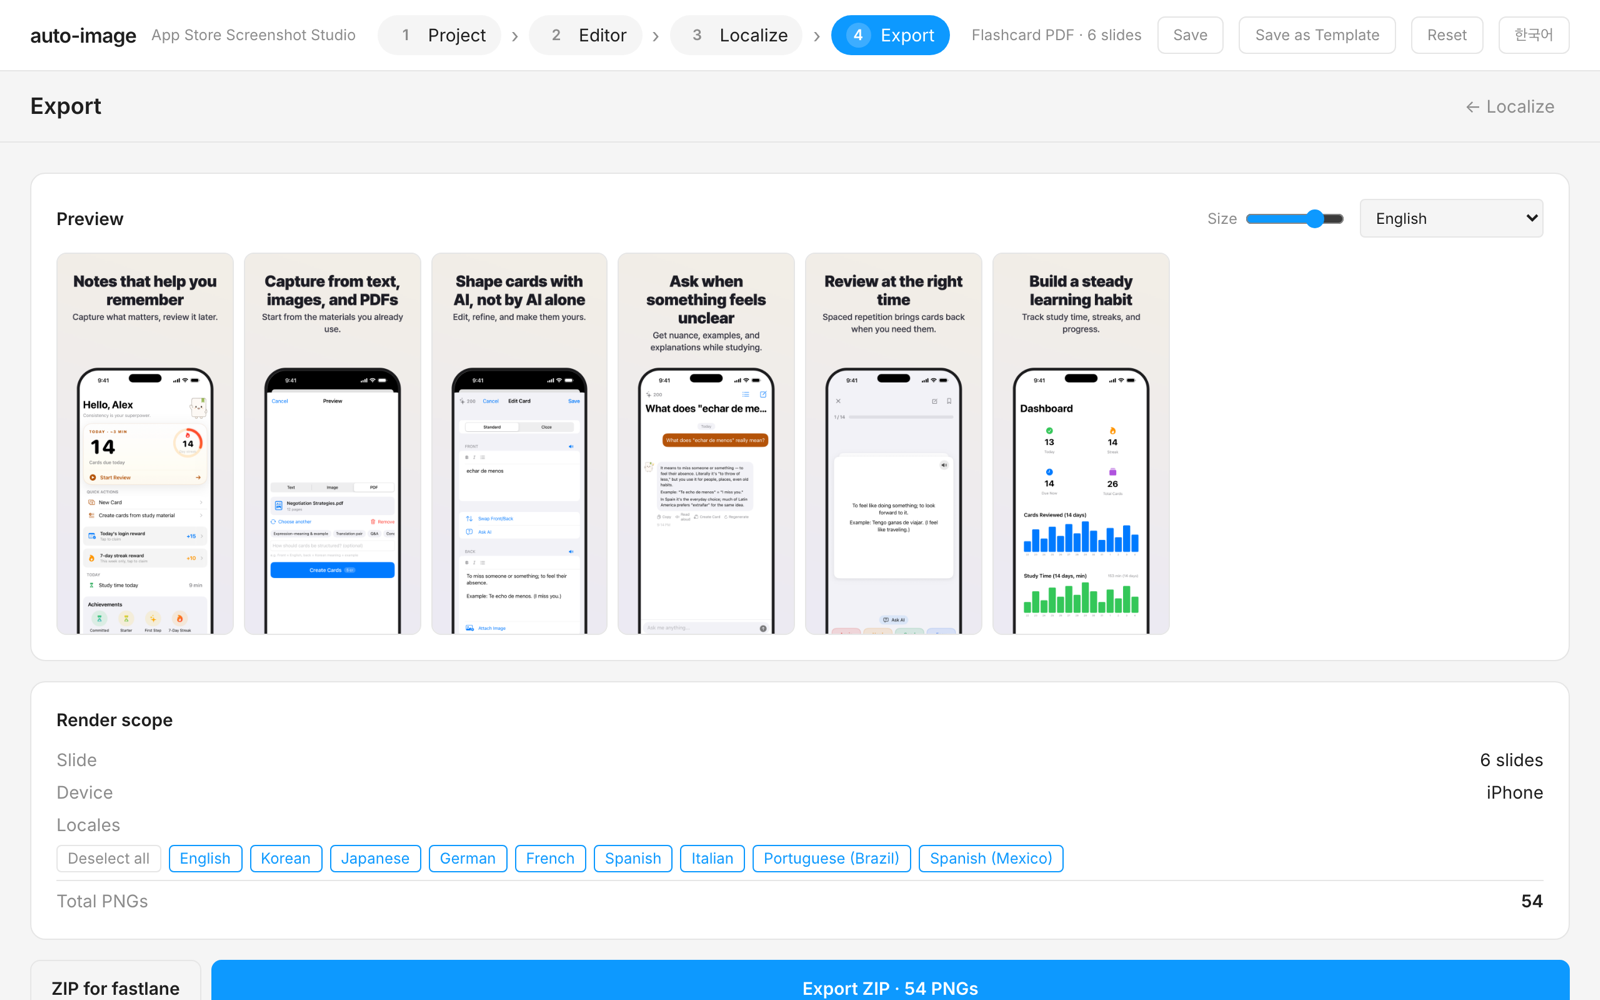
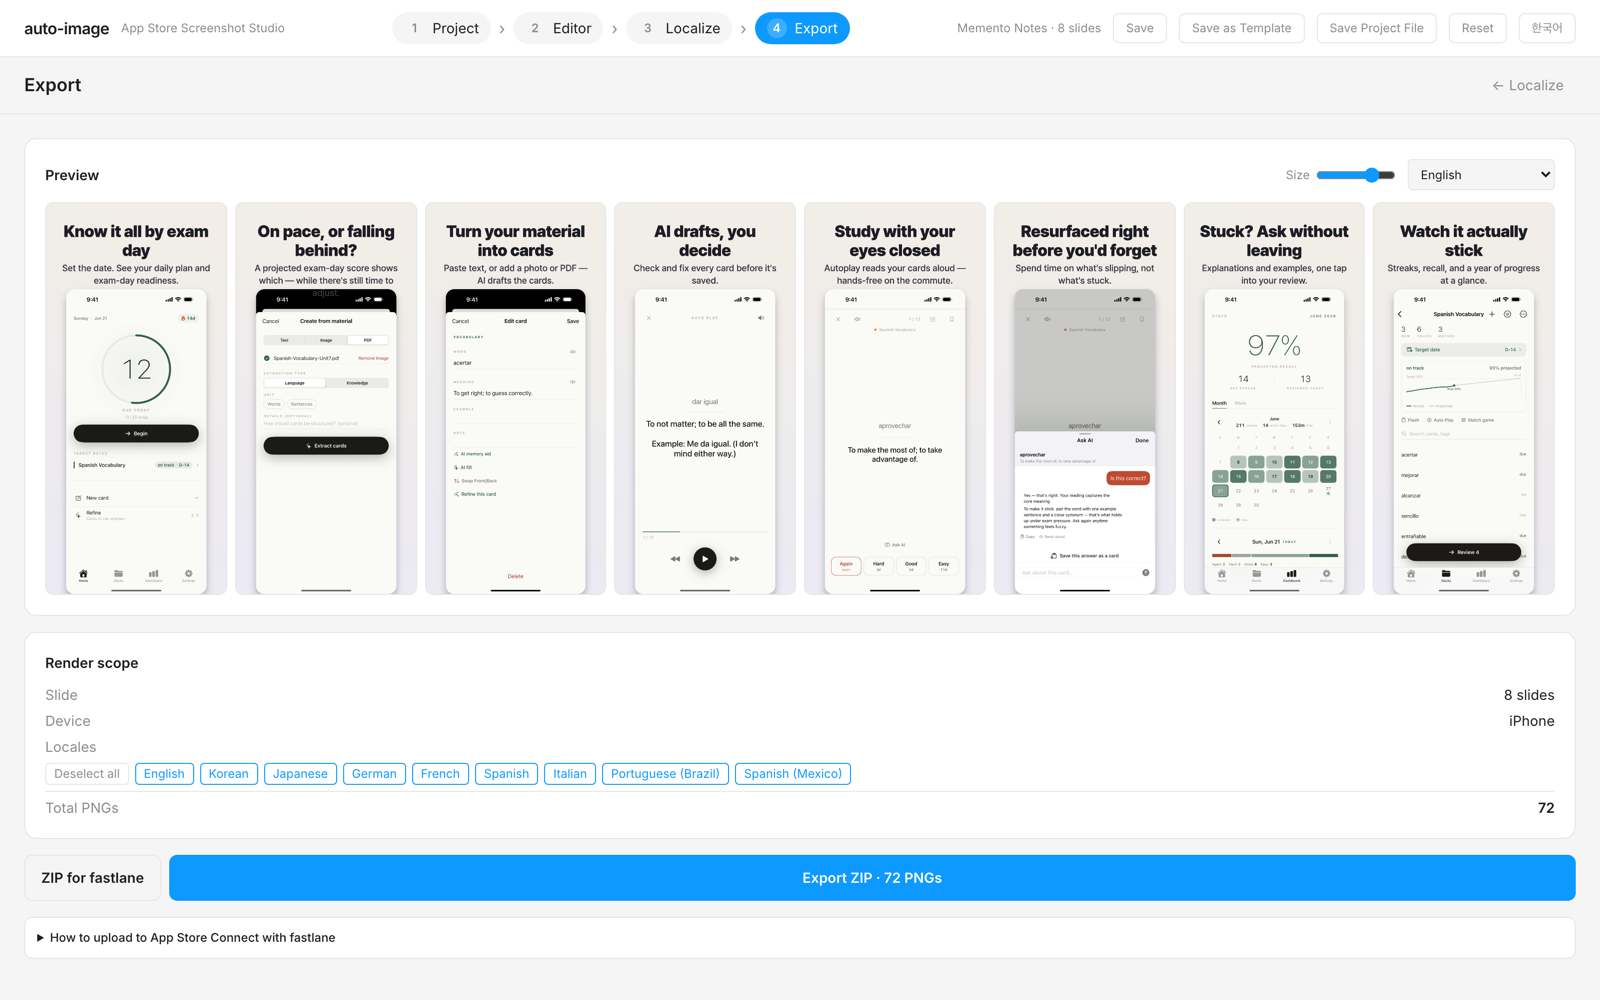
Refresh landing screenshots with current Memento 8-slide set
Recapture editor/localize/export GUI from the current build loaded with
the Memento Notes 8-slide project (was the old 6-slide Flashcard set);
update alt text to 8 slides / 72 PNGs.

Claude-Session: https://claude.ai/code/session_011VrdQ4qQwhaQQkziVNWc1t

diff --git a/index.html b/index.html
@@ -156,9 +156,9 @@
     </ul>
     <div class="shot">
       <div class="track" id="shot-track">
-        <img src="landing/editor.png" alt="The editor: a canvas with an iPhone frame and caption, a six-slide thumbnail strip, and a properties panel" width="1600" height="1000" />
+        <img src="landing/editor.png" alt="The editor: a canvas with an iPhone frame and caption, an eight-slide thumbnail strip, and a properties panel" width="1600" height="1000" />
         <img src="landing/localize.png" alt="The Localize step: a slide-by-language caption table with per-locale screenshots across nine languages" width="1600" height="1000" loading="lazy" />
-        <img src="landing/export.png" alt="The Export step: live previews of all six slides and a one-click ZIP export of 54 App Store-ready PNGs" width="1600" height="1000" loading="lazy" />
+        <img src="landing/export.png" alt="The Export step: live previews of all eight slides and a one-click ZIP export of 72 App Store-ready PNGs" width="1600" height="1000" loading="lazy" />
       </div>
       <button class="shot-arrow prev" id="shot-prev" aria-label="Previous screenshot" disabled>‹</button>
       <button class="shot-arrow next" id="shot-next" aria-label="Next screenshot">›</button>